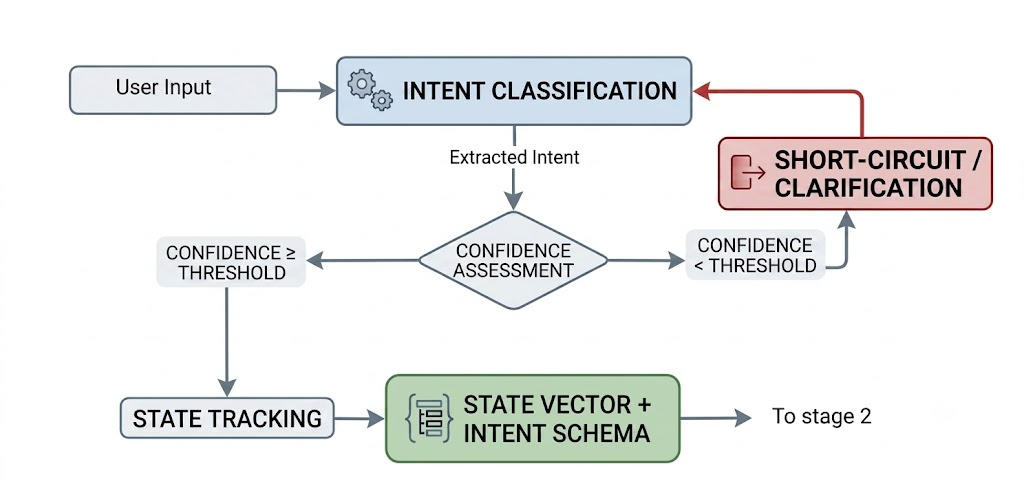
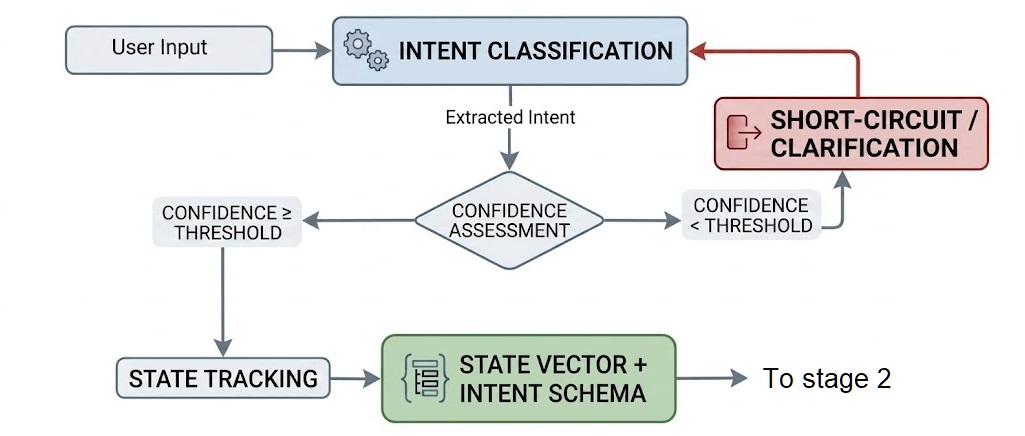
better in-image text

Changed region(s): [[0.0625, 0.0298, 0.9688, 0.9839]]

diff --git a/_projects/intuit_generative_ui.md b/_projects/intuit_generative_ui.md
@@ -89,9 +89,13 @@ At Intuit, I researched and engineered a reliable **dual-stage agent pipeline** 
 </div>
 
 ## Pipeline Architecture
-{% include figure.liquid loading="eager" path="assets/img/stage 1.jpg" class="img-fluid rounded" caption="Figure 1: Autonomous Intent Routing & State Tracking using LangChain Backend with Structured LLM" %}
+<div class="w-75 mx-auto">
+    {% include figure.liquid loading="eager" path="assets/img/stage 1.jpg" class="img-fluid rounded col-md-4" caption="Figure 1: Autonomous Intent Routing & State Tracking using LangChain Backend with Structured LLM" %}
 
-{% include figure.liquid loading="eager" path="assets/img/stage 2.jpg" class="img-fluid rounded" caption="Figure 2: Generative UI Engine outputs deterministic JSON UI Schema" %}
+    {% include figure.liquid loading="eager" path="assets/img/stage 2.jpg" class="img-fluid rounded col-md-4" caption="Figure 2: Generative UI Engine outputs deterministic JSON UI Schema" %}
+</div>
+
+
 
 
 ## Detailed Architectural Breakdown
